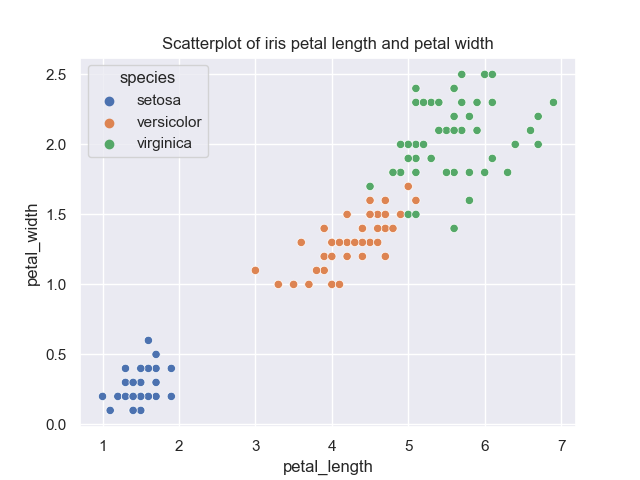
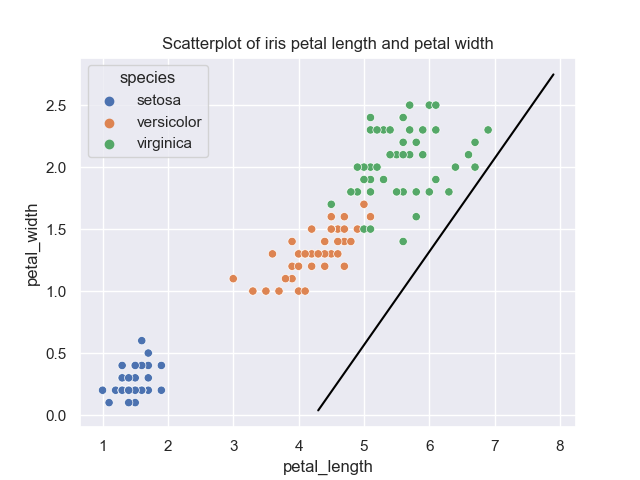
rgression line ish

diff --git a/iris.py b/iris.py
@@ -91,9 +91,9 @@ def iris_EDA(iris_output_dir):
     plt.savefig('Histograms of num var by specie.png')
     plt.close()   # Closing the plot
     
-    # Plotting a swarm[plot by species]
+    # Plotting a strip[plot by species]
     fig, ax = plt.subplots(2, 2, figsize = (15, 15))
-    fig.suptitle ('Iris Dataset swarm plots by species')
+    fig.suptitle ('Iris Dataset stripplots by species')
     
     #creating chart for each subplot
     sns.stripplot(data=iris_data, y='sepal_length', x ='species', hue ='species', ax = ax [0, 0])
@@ -267,25 +267,17 @@ def iris_EDA(iris_output_dir):
     strong_corr =iris_numeric_corr[abs(iris_numeric_corr) >= 0.7]   
     print ((f'The iris dataets variables with strong correlations are : \n {strong_corr}'), file=f)
 
-    # Regression Analysis
+    # Regression Analysis 
     # Creating a short name for the variables
     plen = iris['petal_length']
     pwidth = iris['petal_width']
-    plen = iris['sepal_length']
-    swidth = iris['sepal_width']
-    
-
-    # creating the scatterplot of petal length and petal width
-    sns.scatterplot(data=iris, x='petal_length', y='petal_width', hue='species')
-    
-    plt.title ('Scatterplot of iris petal length and petal width')
-    plt.savefig('Scatterplot of iris petal length and petal width.png') # Saving the plot
-    plt.close()   # Closing the plot
-   
-    #calculating the correlation coefficient
+        
+     #calculating the correlation coefficient
     plen_pwidth_corr  = iris['petal_length'].corr(iris['petal_width'])
     print ((f'The iris correlation coefficient of the petal length and width is {plen_pwidth_corr}.'), file=f)
-    
+    #plt.savefig('Heatmap of the Iris dataset.png') # Saving the plot
+    #plt.close()   # Closing the plot
+
     # calculating the slope(m) and intercept (c)
     m, c = np.polyfit(plen, pwidth, deg=1) # deg = 1 for lin reg
     
@@ -298,9 +290,15 @@ def iris_EDA(iris_output_dir):
     # generating the corresponding values for the petal width
     pwidth_values = m * plen_values + c
     
-    # plotting the best fit line for bodymass vs flipper length
-    plt.plot(plen_values, pwidth_values, color='black')
+    # Plot the best fit line
+     # creating the scatterplot of petal length and petal width
+    fig, ax = plt.subplots(figsize = (13, 8))
+    sns.scatterplot(data=iris, x='petal_length', y='petal_width', hue='species', ax = ax)
+    plt.title('Scatterplot of Iris Petal Length and Petal Width')
 
+     #ax.plot(plen_values, pwidth_values, color='black')
+    plt.savefig('Heatmap of the Iris dataset.png') # Saving the plot
+    plt.close()   # Closing the plot
 
     # Additional plots
     # Regression pairplot
@@ -321,7 +319,7 @@ def iris_EDA(iris_output_dir):
     plt.close()   # Closing the plot
 
 # Opening a text file to append the analysis output
-with open ('irisoutput.txt', 'a') as f:
+with open ('irisoutput.txt', 'w') as f:
     original_stdout = sys.stdout  # Save the original standard output
     sys.stdout = f
     try:
@@ -331,5 +329,5 @@ with open ('irisoutput.txt', 'a') as f:
         sys.stdout = original_stdout
 
 #f = open('irisoutput.txt', 'a')
-print ('EDA, all done!')  # To confirm that the program ran
+print ('Iri Exploratory Data Analysis is all done!')  # To confirm that the program ran
     

diff --git a/README.md b/README.md
@@ -73,25 +73,102 @@ This script was used to perform an exploratory data analysis (EDA) on the iris d
 
 ### Results
 - [Iris dataset Analysis Summary](https://github.com/Gtalen/pands-project/blob/main/iris.py)
-- [Countplot of the Iris species](https://github.com/Gtalen/pands-project/blob/main/Analysis%20Output/Countplot%20of%20the%20Iris%20species.png)
--[Histogram of the iris numeric dataset](https://github.com/Gtalen/pands-project/blob/main/Analysis%20Output/Histograms%20of%20num%20var.png)
--[Histogram of the iris numeric dataset by specie](https://github.com/Gtalen/pands-project/blob/main/Analysis%20Output/Histograms%20of%20num%20var%20by%20specie.png)
+- [Countplot of the Iris species](https://github.com/Gtalen/pands-project/blob/main/Analysis%20Output/ Countplot%20of%20the%20Iris%20species.png).
+-[Histogram of the iris numeric dataset](https://github.com/Gtalen/pands-project/blob/main/Analysis%20Output/Histograms%20of%20num%20var.png).
+-[Histogram of the iris numeric dataset by specie](https://github.com/Gtalen/pands-project/blob/main/Analysis%20Output/Histograms%20of%20num%20var%20by%20specie.png).
 - [Stripplot of the iris  datasets by specie](https://github.com/Gtalen/pands-project/blob/main/Analysis%20Output/Stripplot%20by%20Iris%20species.png)
 - [Boxplot with outliers](https://github.com/Gtalen/pands-project/blob/main/Analysis%20Output/Boxplot%20Iris%20outliers.png)
 - [Boxplot without outliers](https://github.com/Gtalen/pands-project/blob/main/Analysis%20Output/Boxplot%20Iris%20-%20no%20outliers.png)
 - [Pairplot of the relation between the numeric variables](https://github.com/Gtalen/pands-project/blob/main/Analysis%20Output/Pairplot%20of%20the%20Iris%20dataset.png)
 - [Heatmap - Correaltion analysis](https://github.com/Gtalen/pands-project/blob/main/Analysis%20Output/Heatmap%20of%20the%20Iris%20dataset.png)
-- [Scatterplot: Correlation and Regression: Petal length vs petal width]
+- [Scatterplot: Correlation and Regression: Petal length vs petal width](https://github.com/Gtalen/pands-project/blob/main/Analysis%20Output/Scatterplot%20of%20iris%20petal%20length%20and%20petal%20width.png)
 - [Correlation and Regression: Petal length vs petal width](https://github.com/Gtalen/pands-project/blob/main/Analysis%20Output/Corr%20and%20Reg%20analysis%20on%20the%20iris%20petal%20length%20and%20petal%20width.png)
-- [Swarmplots by iris species]()
-- [Violinplots by iris species]()
+- [Violinplots by iris species](https://github.com/Gtalen/pands-project/blob/main/Analysis%20Output/Iris%20datset%20Dataset%20violin%20plots%20by%20species.png)
+
+
+## Discussion
+This project utilised python funtions and modules alongside  other prerequisite libraries in analysing the iris dataset.
+
+### Data Exploration
+ Data eexploration involved using the data head and tail functions to get a quick overview of the first and last five rows in the dataset respectively. Descripitive statistics was used for the summarize the mean, standard deviation and the range of the numeric variable and a countplot for the categorical variables. 
+
+#### Table 1: ![Iris Dataset Descriptives](https://github.com/Gtalen/pands-mywork/blob/main/data-analytics-mywork/Iris%20Descriptive%20Summary%20table.png)
+
+#### Figure-1 Countplot of the Categorical Variales
+![Countplot of the Iris species](https://github.com/Gtalen/pands-project/blob/main/Analysis%20Output/ 
+untplot%20of%20the%20Iris%20species.png).
+
+### Data Structure
+There are four float (numeric) data type variables and one object (categorical) type.  None of all the 150 measured variables in the datset are of the non null type. There are 50 instances each for the setosa, versicolor and virginica.
+
+#### Table 2
+
+### Univariate Analysis
+
+A univariate analysis involves exploring a datset from one dimension by looking at a single variable as described here by [Sruthi Sudheer](https://www.analyticsvidhya.com/blog/2020/07/univariate-analysis-visualization-with-illustrations-in-python/). A stiplot and histogram was used for this. A histogram was used to visualize the frequency of occurence of each of the measured attributes. The addition of kernel density estimate (KDE) and species was used to add depth to the plot to provide more information about the dataset. [Kdeplot](https://seaborn.pydata.org/generated/seaborn.kdeplot.html) is useful for visualizing observation distribution.
+
+Figure 2 - Histogram of the Iris dataset Categorical Variables
+![Histogram of the iris numeric dataset by specie](https://github.com/Gtalen/pands-project/blob/main/Analysis%20Output/Histograms%20of%20num%20var%20by%20specie.png).
+
+#### Histograms and Stripplots Insights
+
+- Iris setosa has a longer sepal width, a distinct shorter petal length and petal width compared to the versicolor and virginica which has some overlap in this regard.
+- Iris Virginica has the longets sepal length and sepal width
+- The petal lengthand petal width of the iris versicolor lies in between the setosa and virginica
+ However, there is some overlap in the iris versicolor and virginica's sepal length and sepal width as well as the sepal width of iris setosa.
+- The KDE plot showed a normal distribution of the numeric variables
+
+### Data Quality Checks and manipulation
+
+A copy of the dataset was created before any data manipulations was done as to preserve the original data integrity. The iris data set has no missing values and one duplicate row. However, the duplicate row was ignored because the species value count showed equal number for each of the specie ([Figure 1]()). This was to avoid creating imbalance in the analysis comparison considering the small sample size of the dataset.
+
+### Outlier Mining
+An outlier is a value that differs significantly from the rest of the dataset. The interquartile method was used to detect within-species outliers in the iris dataset and these were visualized with a Boxplot. In the boxplot, observations outside the whiskers are the outliers. Outliers using the interquartile method are data points that are 1.5 times the interquartile range.
+
+#### Outlier Summary
+
+The IQR mmethod identified a total of 13 outliers in the dataset across all 3 species. 8 of these were from the iris setosa, 5 from iris virginica and and 1 from iris versicolor. The sepal length and sepal width has the highest numebr of outliers of 5 each, 2 from the petal width and 1 from the petal length. Non outliers were represented as not a number. The outliere were not dropped due to the small sample size. Another approach would have been utilizing either the imputation or winsorizing method as described [here](https://neuraldatascience.io/5-eda/data_cleaning.html)  though not done in this analysis. The outliers were visualized using a boxplot.
+
+Figure 2: Iris Dataset Boxplot with outliers
+![Boxplot with outliers](https://github.com/Gtalen/pands-project/blob/main/Analysis%20Output/Boxplot%20Iris%20outliers.png)
+
+The outliers were removed from the boxplot only and not from the dataset by ausing the seaborn library in (Figure 3]())
+Figure 3: Iris Dataset Boxplot without outliers
+![Boxplot without outliers](https://github.com/Gtalen/pands-project/blob/main/Analysis%20Output/Boxplot%20Iris%20-%20no%20outliers.png)
+
+### Bivariate Analysis
+
+The [Seaborn pairplot](https://seaborn.pydata.org/generated/seaborn.pairplot.html) was used to visualise the pairwise relationship between variables. This plotted a kernel density plot diagonally and a scatterplot of the paired variables in the iris dataset. The KDE plot showed the normal distribution of the iris dataset. The scatterplot showed a linear relationship between the numeric variables. The petal length and petal width of the iris setosa were shorter than the other 2 species and stood out in the scatteplot.
+
+Figure 4: Pairplot of the Iris datset
+![Pairplot of the relation between the numeric variables](https://github.com/Gtalen/pands-project/blob/main/Analysis%20Output/Pairplot%20of%20the%20Iris%20dataset.png)
+
+## Correlation Analysis
+This was performed to understand the strength of the relationship between the numeric variables. The pearson's correlation coefficient was used to calculate the correlation coefficient across all the variables in the dataset.
+
+### Hypothesis
+**Null Hypothesis:** There is a relationship between the the iris petal length and the iris petal width. 
+
+**Alternate Hypothesis** There is no relationship between the the iris petal length and the iris petal width.
+
+Figure 5: Heatmap of the Iris dataset
+![Heatmap - Correaltion analysis](https://github.com/Gtalen/pands-project/blob/main/Analysis%20Output/Heatmap%20of%20the%20Iris%20dataset.png)
+
+### Correlation Summary
+The correlation coefficient of the pairwise relationship between the iris dataset numeric variables ranged from r = -0.12 to 1. The correlation between the sepal length and sepal width was the weakest ( r = -0.12). A strong postive correlation of 1 was observed when the variables wre paired with themselves (Petal length vs petal length). 
+
+#### Testing the Null hypothesis
+The Pearson's correlation coeffiient for the petal length and the petal width of the iris dataset was r = 0.96 signifying a strong positve correlation. Hence, the null hypothesis was accepted.
+
+
+#### Regression Analysis
+The linear relationship between the iris petal length and petal depth was analysed. The iris petal width was the dependent variable and the petal length the independent variable.The slope was calculated to be 0.42 and the intercept -0.36.  If every other variable should remain constant, this implies that for every millimeter increase in the iris petal length will, an expected increase of 0.42mm is expected in the iris petal width. 
+Figure 6 (Petal length vs Petal width Scatterplot with Regression line)
 
 
 
 
-
-### Discussion
-
+ 
  ### Conclusion
 
 
